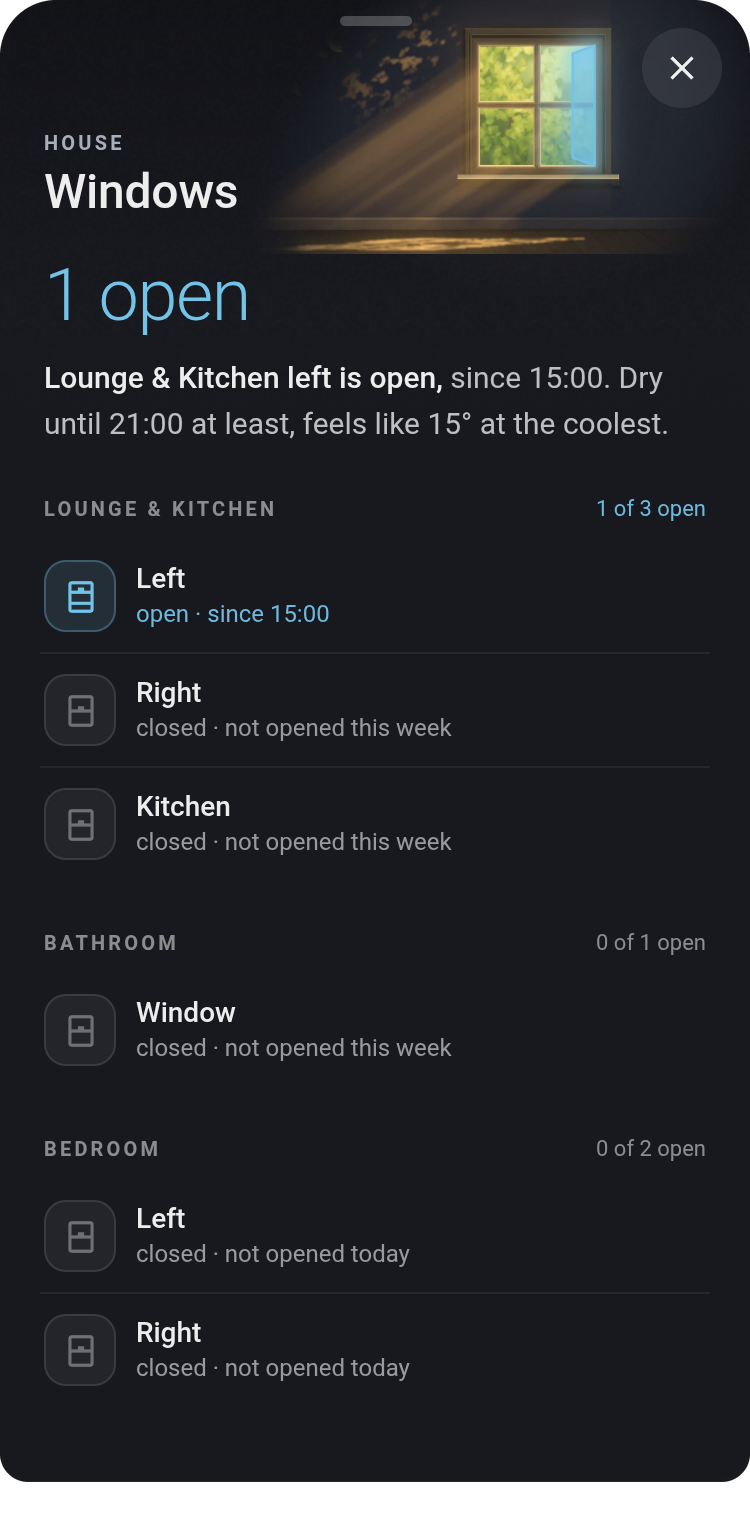
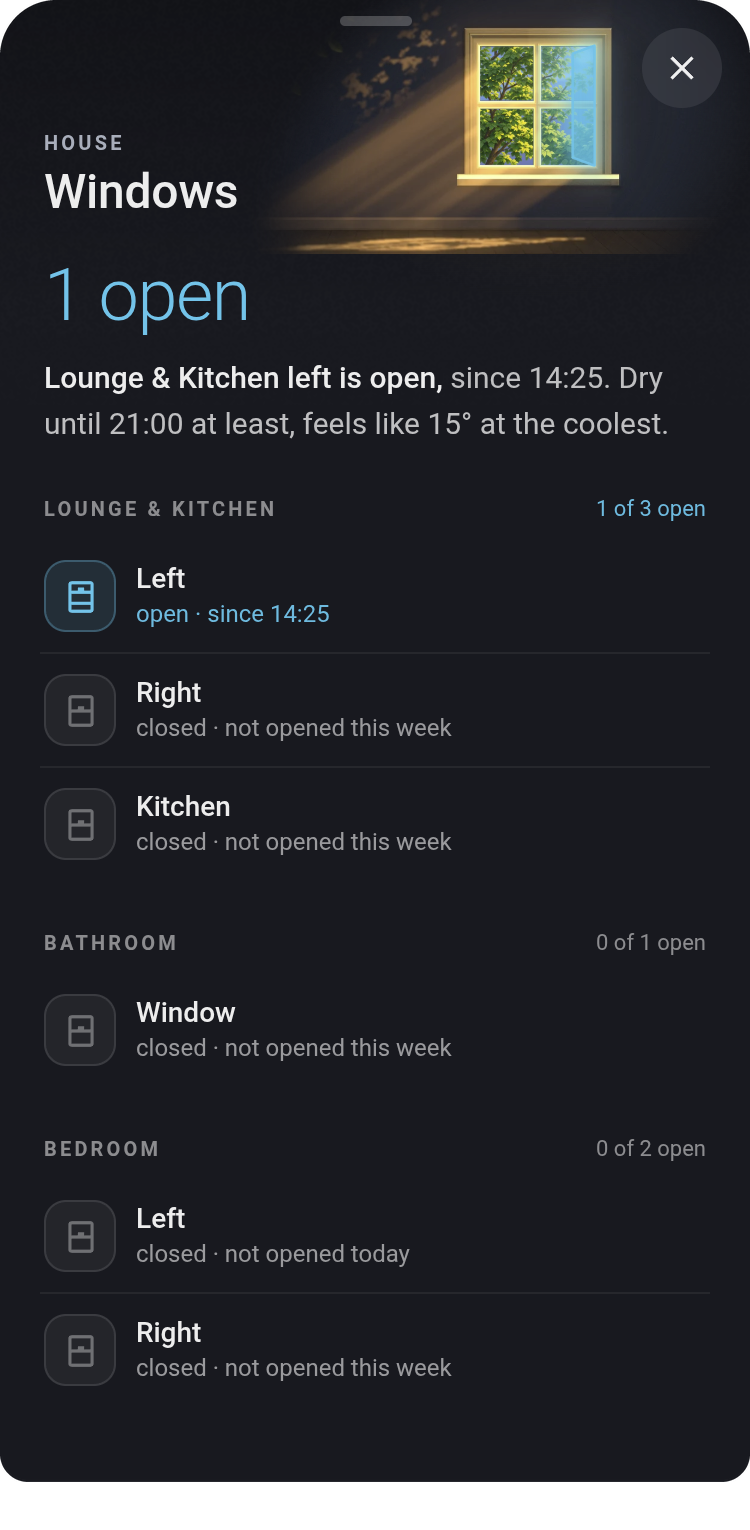
House window: own foliage, softer cloud, bluer night
The whole-home windows picture now uses a new, crisp foliage cut-out
with the weather's sky behind it, in place of the leaves taken from
the old painting.

- Cloud, rain and thunder: deep even green leaves with small, sharp
  gaps of sky, not a pale veil that looked like fog.
- Night: darker leaves against a bluer sky.
- Cloudy floor: the soft light on the boards is lit wood, not a grey
  wash.
- Plate set 7 in dist/lamplight-windows/7/ replaces set 4. A changed
  picture gets a new folder, because browsers keep a picture for 31
  days.
- New pictures of the whole-home windows popup in the docs.

diff --git a/dist/lamplight.js b/dist/lamplight.js
@@ -13788,7 +13788,7 @@ const LAMP_HERO_FADE_EASE = [[0, 1], [0.15, 0.97], [0.3, 0.88], [0.45, 0.72], [0
 // - drops on the glass in rain and thunder, snow on the panes and the sill, mist in fog;
 // - by night the moon shows only where the light shows through the leaves (moon-mask.png), with a soft glow round it.
 // The elevation tint follows the sun's share: none under cloud. File px: glass 818-1012 x 75-277, marks 780-1054 x 45-311.
-const LAMP_HERO_WX_SET = '4';
+const LAMP_HERO_WX_SET = '7';
 const LAMP_HERO_WX = { file: [1270, 423], glass: [818, 75, 194, 202], marks: [780, 45, 274, 266], sun: { clear: 1, fair: 0.6 },
   mark: { rain: 'rain', thunder: 'rain', snow: 'snow', fog: 'fog' }, glow: 0.3 };
 function lampHeroWxPick(base, state, elev, night) {

diff --git a/src/93-popup-glyphs.js b/src/93-popup-glyphs.js
@@ -1499,7 +1499,7 @@ const LAMP_HERO_FADE_EASE = [[0, 1], [0.15, 0.97], [0.3, 0.88], [0.45, 0.72], [0
 // - drops on the glass in rain and thunder, snow on the panes and the sill, mist in fog;
 // - by night the moon shows only where the light shows through the leaves (moon-mask.png), with a soft glow round it.
 // The elevation tint follows the sun's share: none under cloud. File px: glass 818-1012 x 75-277, marks 780-1054 x 45-311.
-const LAMP_HERO_WX_SET = '4';
+const LAMP_HERO_WX_SET = '7';
 const LAMP_HERO_WX = { file: [1270, 423], glass: [818, 75, 194, 202], marks: [780, 45, 274, 266], sun: { clear: 1, fair: 0.6 },
   mark: { rain: 'rain', thunder: 'rain', snow: 'snow', fog: 'fog' }, glow: 0.3 };
 function lampHeroWxPick(base, state, elev, night) {

diff --git a/docs/cards/windows.md b/docs/cards/windows.md
@@ -190,7 +190,7 @@ open, the first line names it. If the weather is good, it adds how long it will 
 These are the same four evening states for the whole home:
 
 <p align="center">
-  <img src="../images/windows-house-states.png" alt="The whole-home windows popup four times: all closed; the lounge left window open on a mild evening, dry until 02:00; open with a cold band; and open with an amber wind warning band" width="560">
+  <img src="../images/windows-house-states.png" alt="The whole-home windows popup four times: all closed; the lounge left window open on a mild evening, dry until 05:00; open with a cold band; and open with an amber wind warning band" width="560">
 </p>
 
 ### The weather in the window popups
@@ -205,7 +205,7 @@ piles up on the sill. At night the moon peeks through the leaves in its real pha
 is clear.
 
 <p align="center">
-  <img src="../images/window-weather-house.png" alt="The top of the whole-home windows popup by day, with sunlight falling through the window, and at night, with moonlight" width="560">
+  <img src="../images/window-weather-house.png" alt="The top of the whole-home windows popup three times: sun through the leaves on a clear day, raindrops on the glass and a dim grey room when it rains, and the moon through the leaves on a clear night" width="760">
 </p>
 
 On a room's popup you look out through the window panes at the sky. When it's clear, or there are
